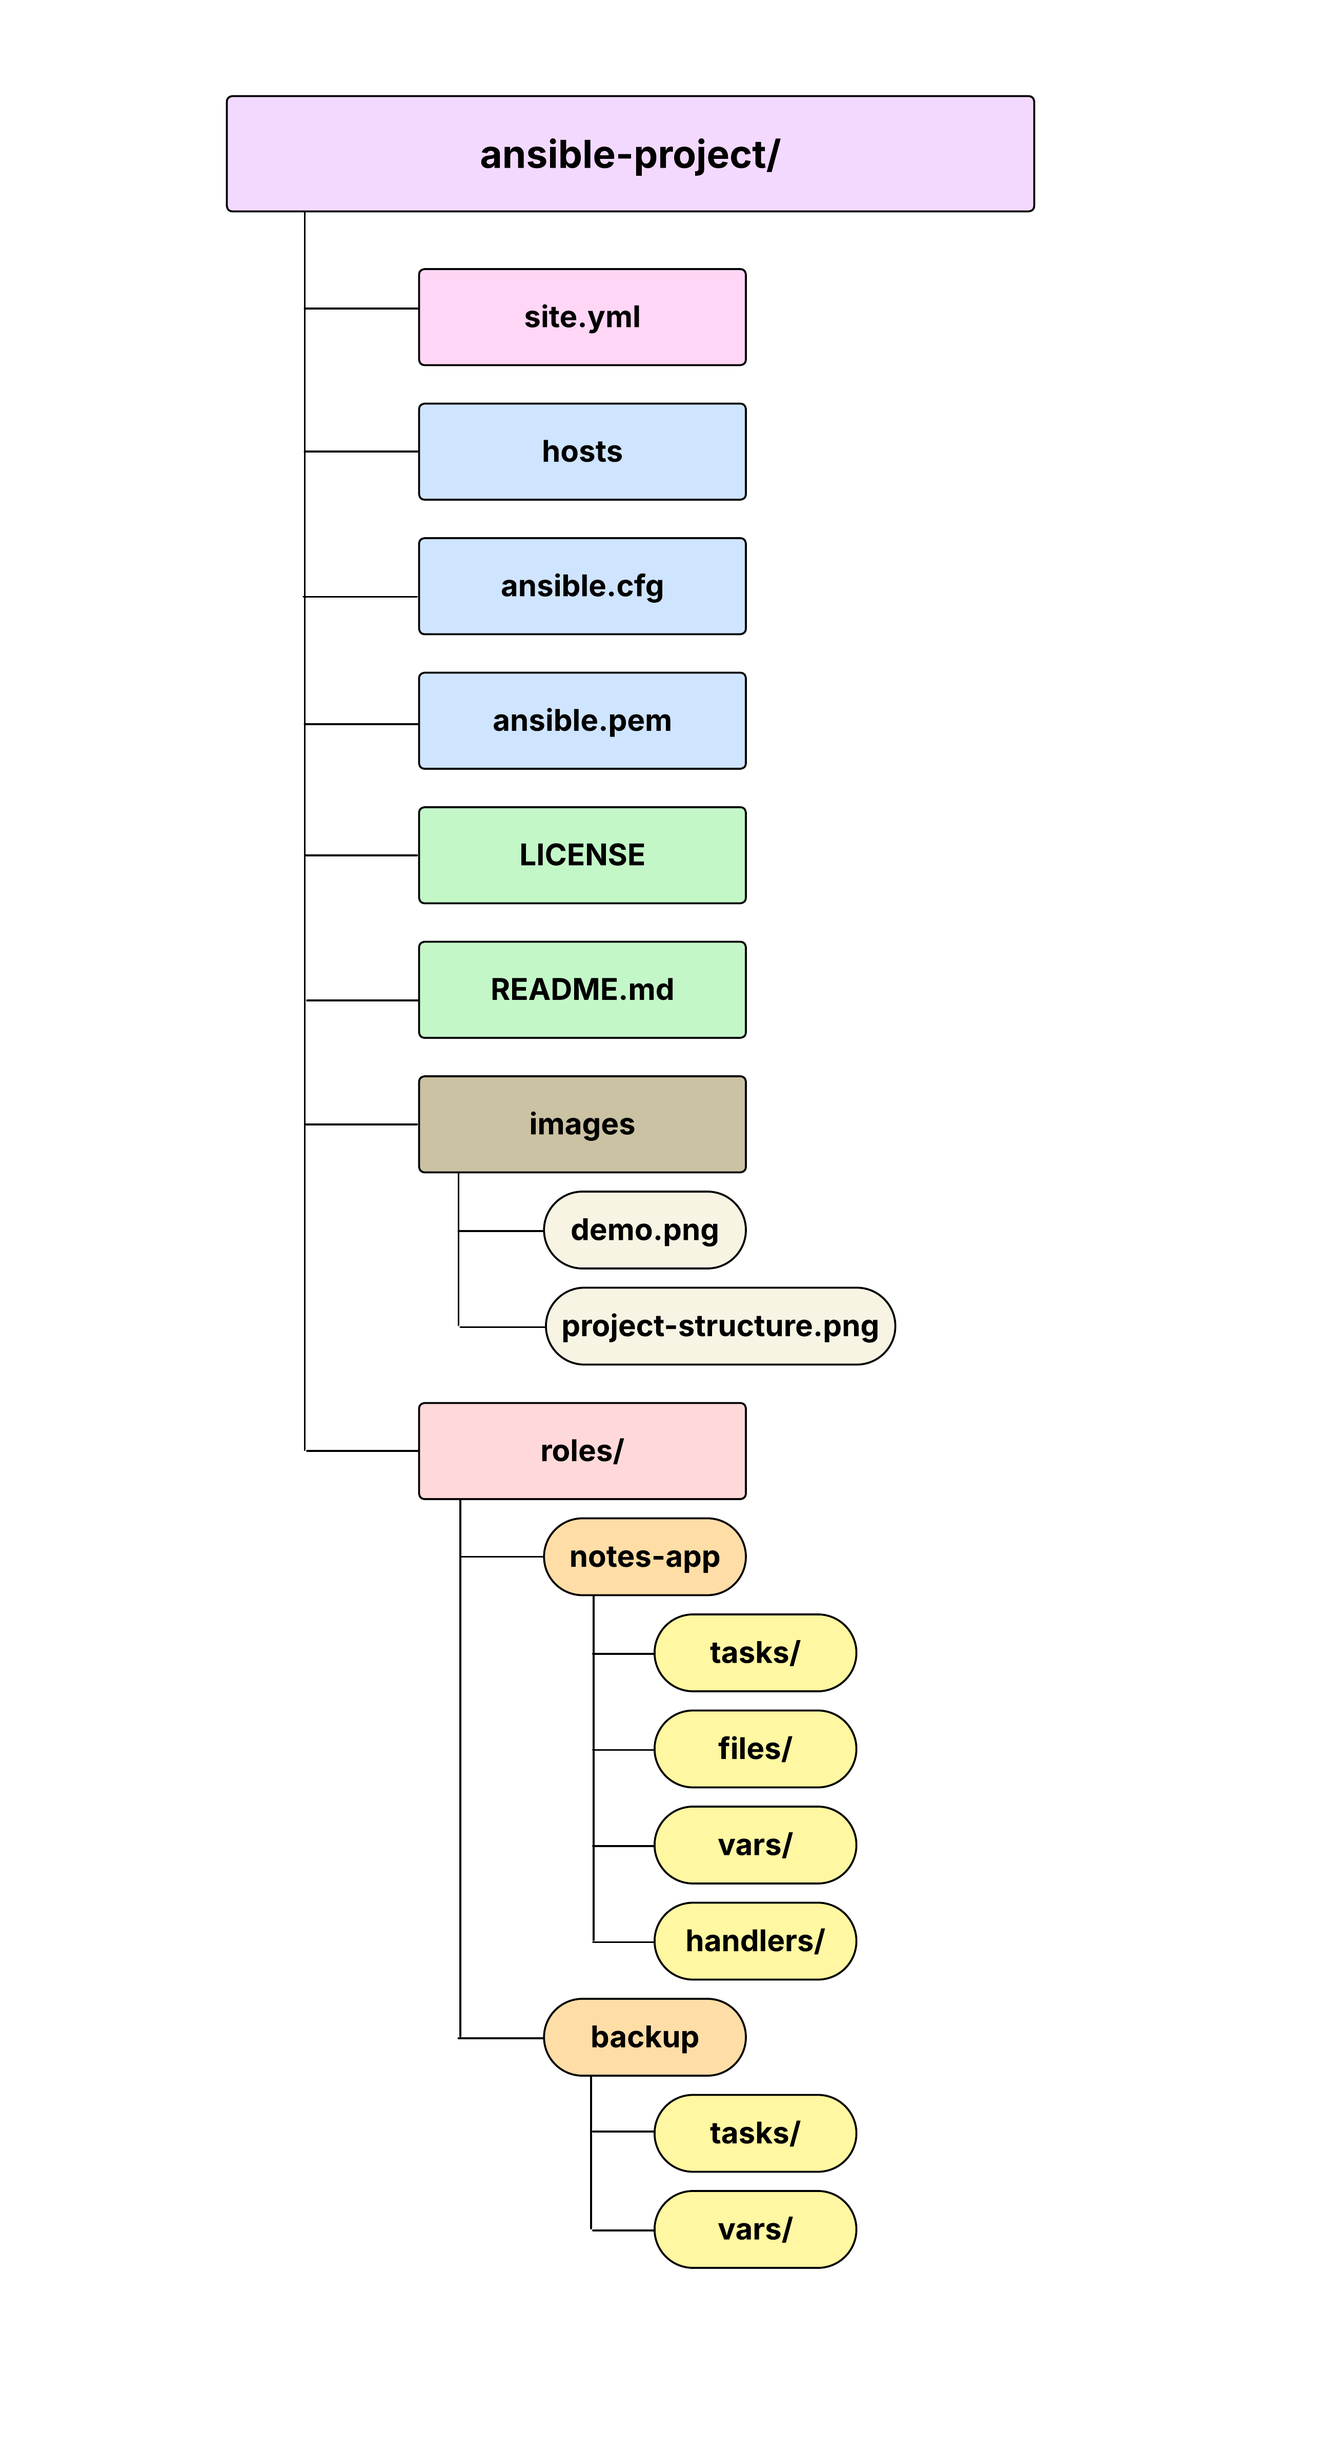
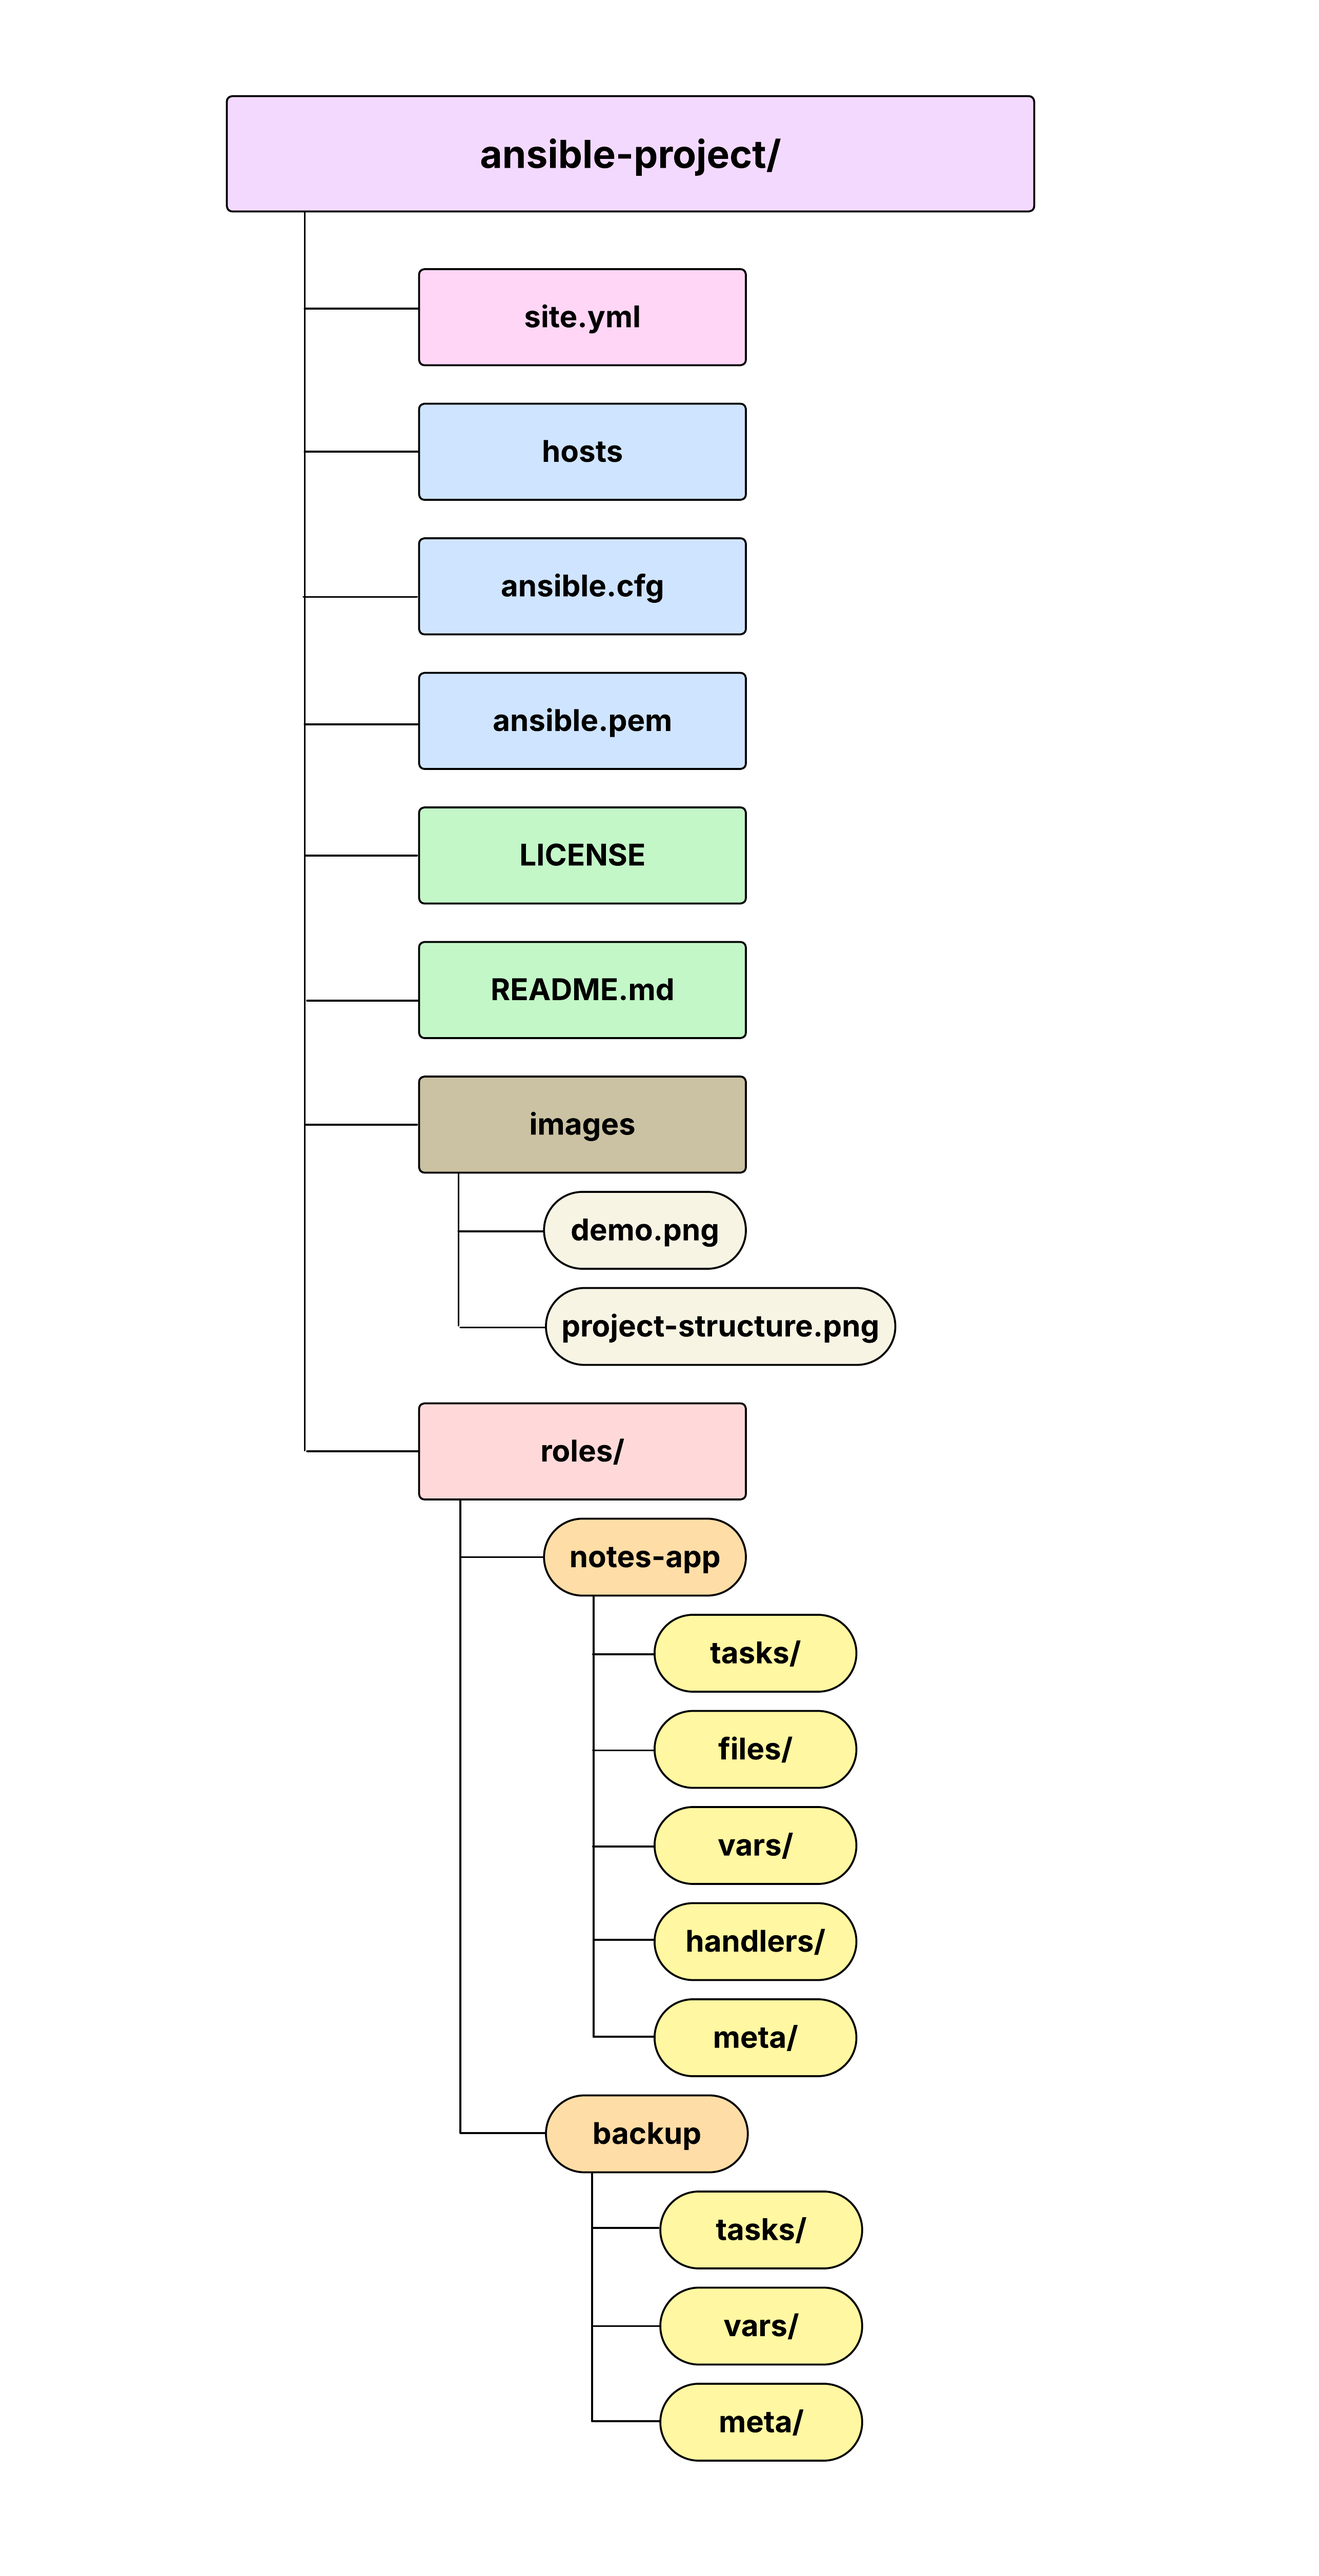
updated-ansible-notes-app

Changed region(s): [[0.1866, 0.0311, 0.7773, 0.9649]]

diff --git a/README.md b/README.md
@@ -33,16 +33,18 @@ ansible-project/
 ├── README.md
 ├── images
 │   ├── demo.png
-│   └── project-structure
+│   └── project-structure.png
 ├── roles/
 │   ├── notes-app/
 │   │   ├── tasks/
 │   │   ├── files/
 │   │   ├── vars/
-│   │   └── handlers/
+│   │   ├── handlers/
+│   │   └── meta/
 │   └── backup/
 │       ├── tasks/
-│       └── vars/
+│       ├── vars/
+│       └── meta/
 ```
 
 ![Project Structure](images/project-structure.png)
